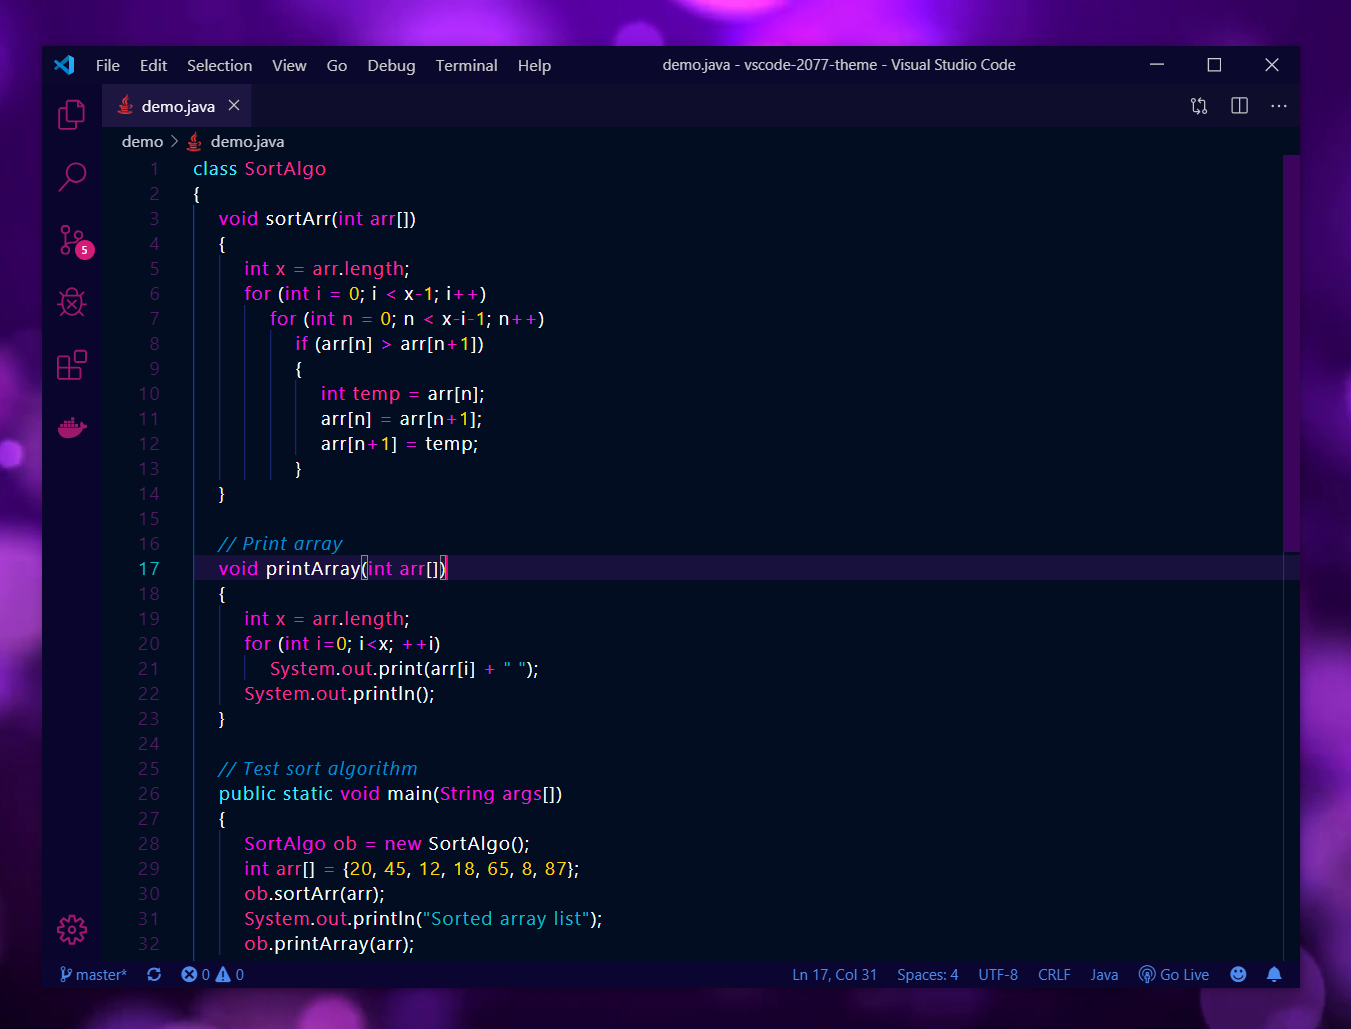
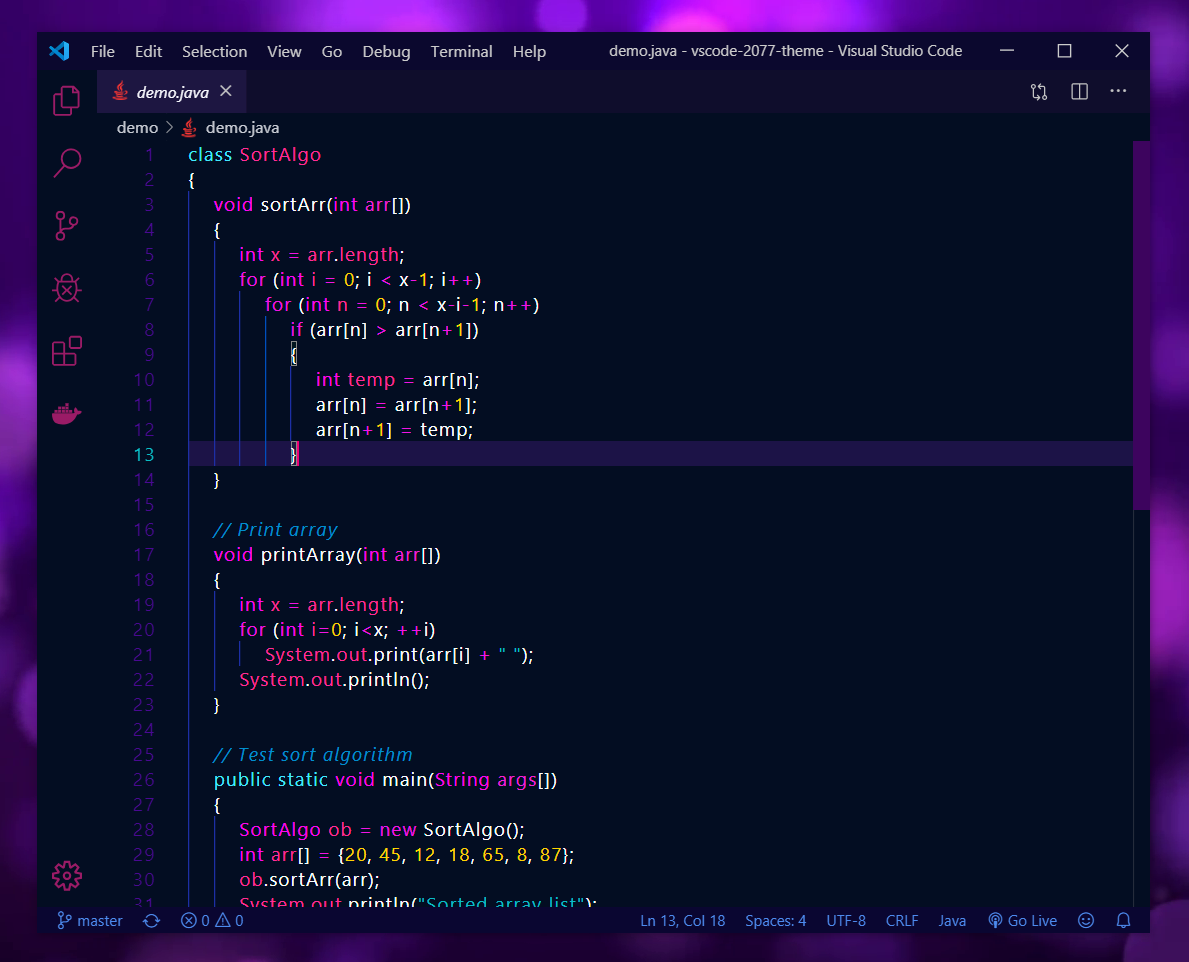
1.4.1

diff --git a/README.md b/README.md
@@ -26,7 +26,7 @@
 </h2>
 
 <p align="center">
-<img src="https://user-images.githubusercontent.com/39559256/64077989-7ccb1200-ccde-11e9-90a0-4d556b2d51a5.PNG" alt="JavaScript">
+<img src="https://user-images.githubusercontent.com/39559256/67148999-b49e1100-f2ae-11e9-9930-4b4a1a91866e.PNG" alt="JavaScript">
 </p>
 
 <h2 align="center">
@@ -34,24 +34,7 @@
 </h2>
 
 <p align="center">
-<img src="https://user-images.githubusercontent.com/39559256/64078006-8eacb500-ccde-11e9-9d56-9ab71170951c.png" alt="React">
-</p>
-
-<h2 align="center">
-  Python
-</h2>
-
-<p align="center">
-<img src="https://user-images.githubusercontent.com/39559256/66210740-342ebc00-e6c3-11e9-9e4c-d42e021b2d04.PNG" alt="Python">
-</p>
-
-
-<h2 align="center">
-  Java
-</h2>
-
-<p align="center">
-<img src="https://user-images.githubusercontent.com/39559256/64077974-5e651680-ccde-11e9-8e50-109c1fe93a35.PNG" alt="Java">
+<img src="https://user-images.githubusercontent.com/39559256/67149005-c384c380-f2ae-11e9-96a2-e5e46a2fdbd1.png" alt="React">
 </p>
 
 <h2 align="center">
@@ -59,7 +42,15 @@
 </h2>
 
 <p align="center">
-<img src="https://user-images.githubusercontent.com/39559256/64078013-9ec49480-ccde-11e9-9b0b-6f9af0b7199c.PNG" alt="TypeScript">
+<img src="https://user-images.githubusercontent.com/39559256/67149012-d4cdd000-f2ae-11e9-8c8e-0add64497207.PNG" alt="TypeScript">
+</p>
+
+<h2 align="center">
+  Java
+</h2>
+
+<p align="center">
+<img src="https://user-images.githubusercontent.com/39559256/67148986-8c161700-f2ae-11e9-9e7d-65bdac961175.PNG" alt="Java">
 </p>
 
 ## Credits

diff --git a/CHANGELOG.md b/CHANGELOG.md
@@ -1,6 +1,10 @@
 # Change Log
 All notable changes to the **"2077-theme"** extension will be documented in this file.
 
+## [1.4.1]
+- Update LineNumber and HoverHighlight
+- Update images
+
 ## [1.4.0]
 - Match activityBar color with editor.Background
 - Update panel colors
@@ -14,7 +18,7 @@ All notable changes to the **"2077-theme"** extension will be documented in this
 - Update gitDecoration
 
 ## [1.3.7]
-- Update lineNumber foreground
+- Update LineNumber foreground
 - Remove downloads badge
 
 ## [1.3.6]
